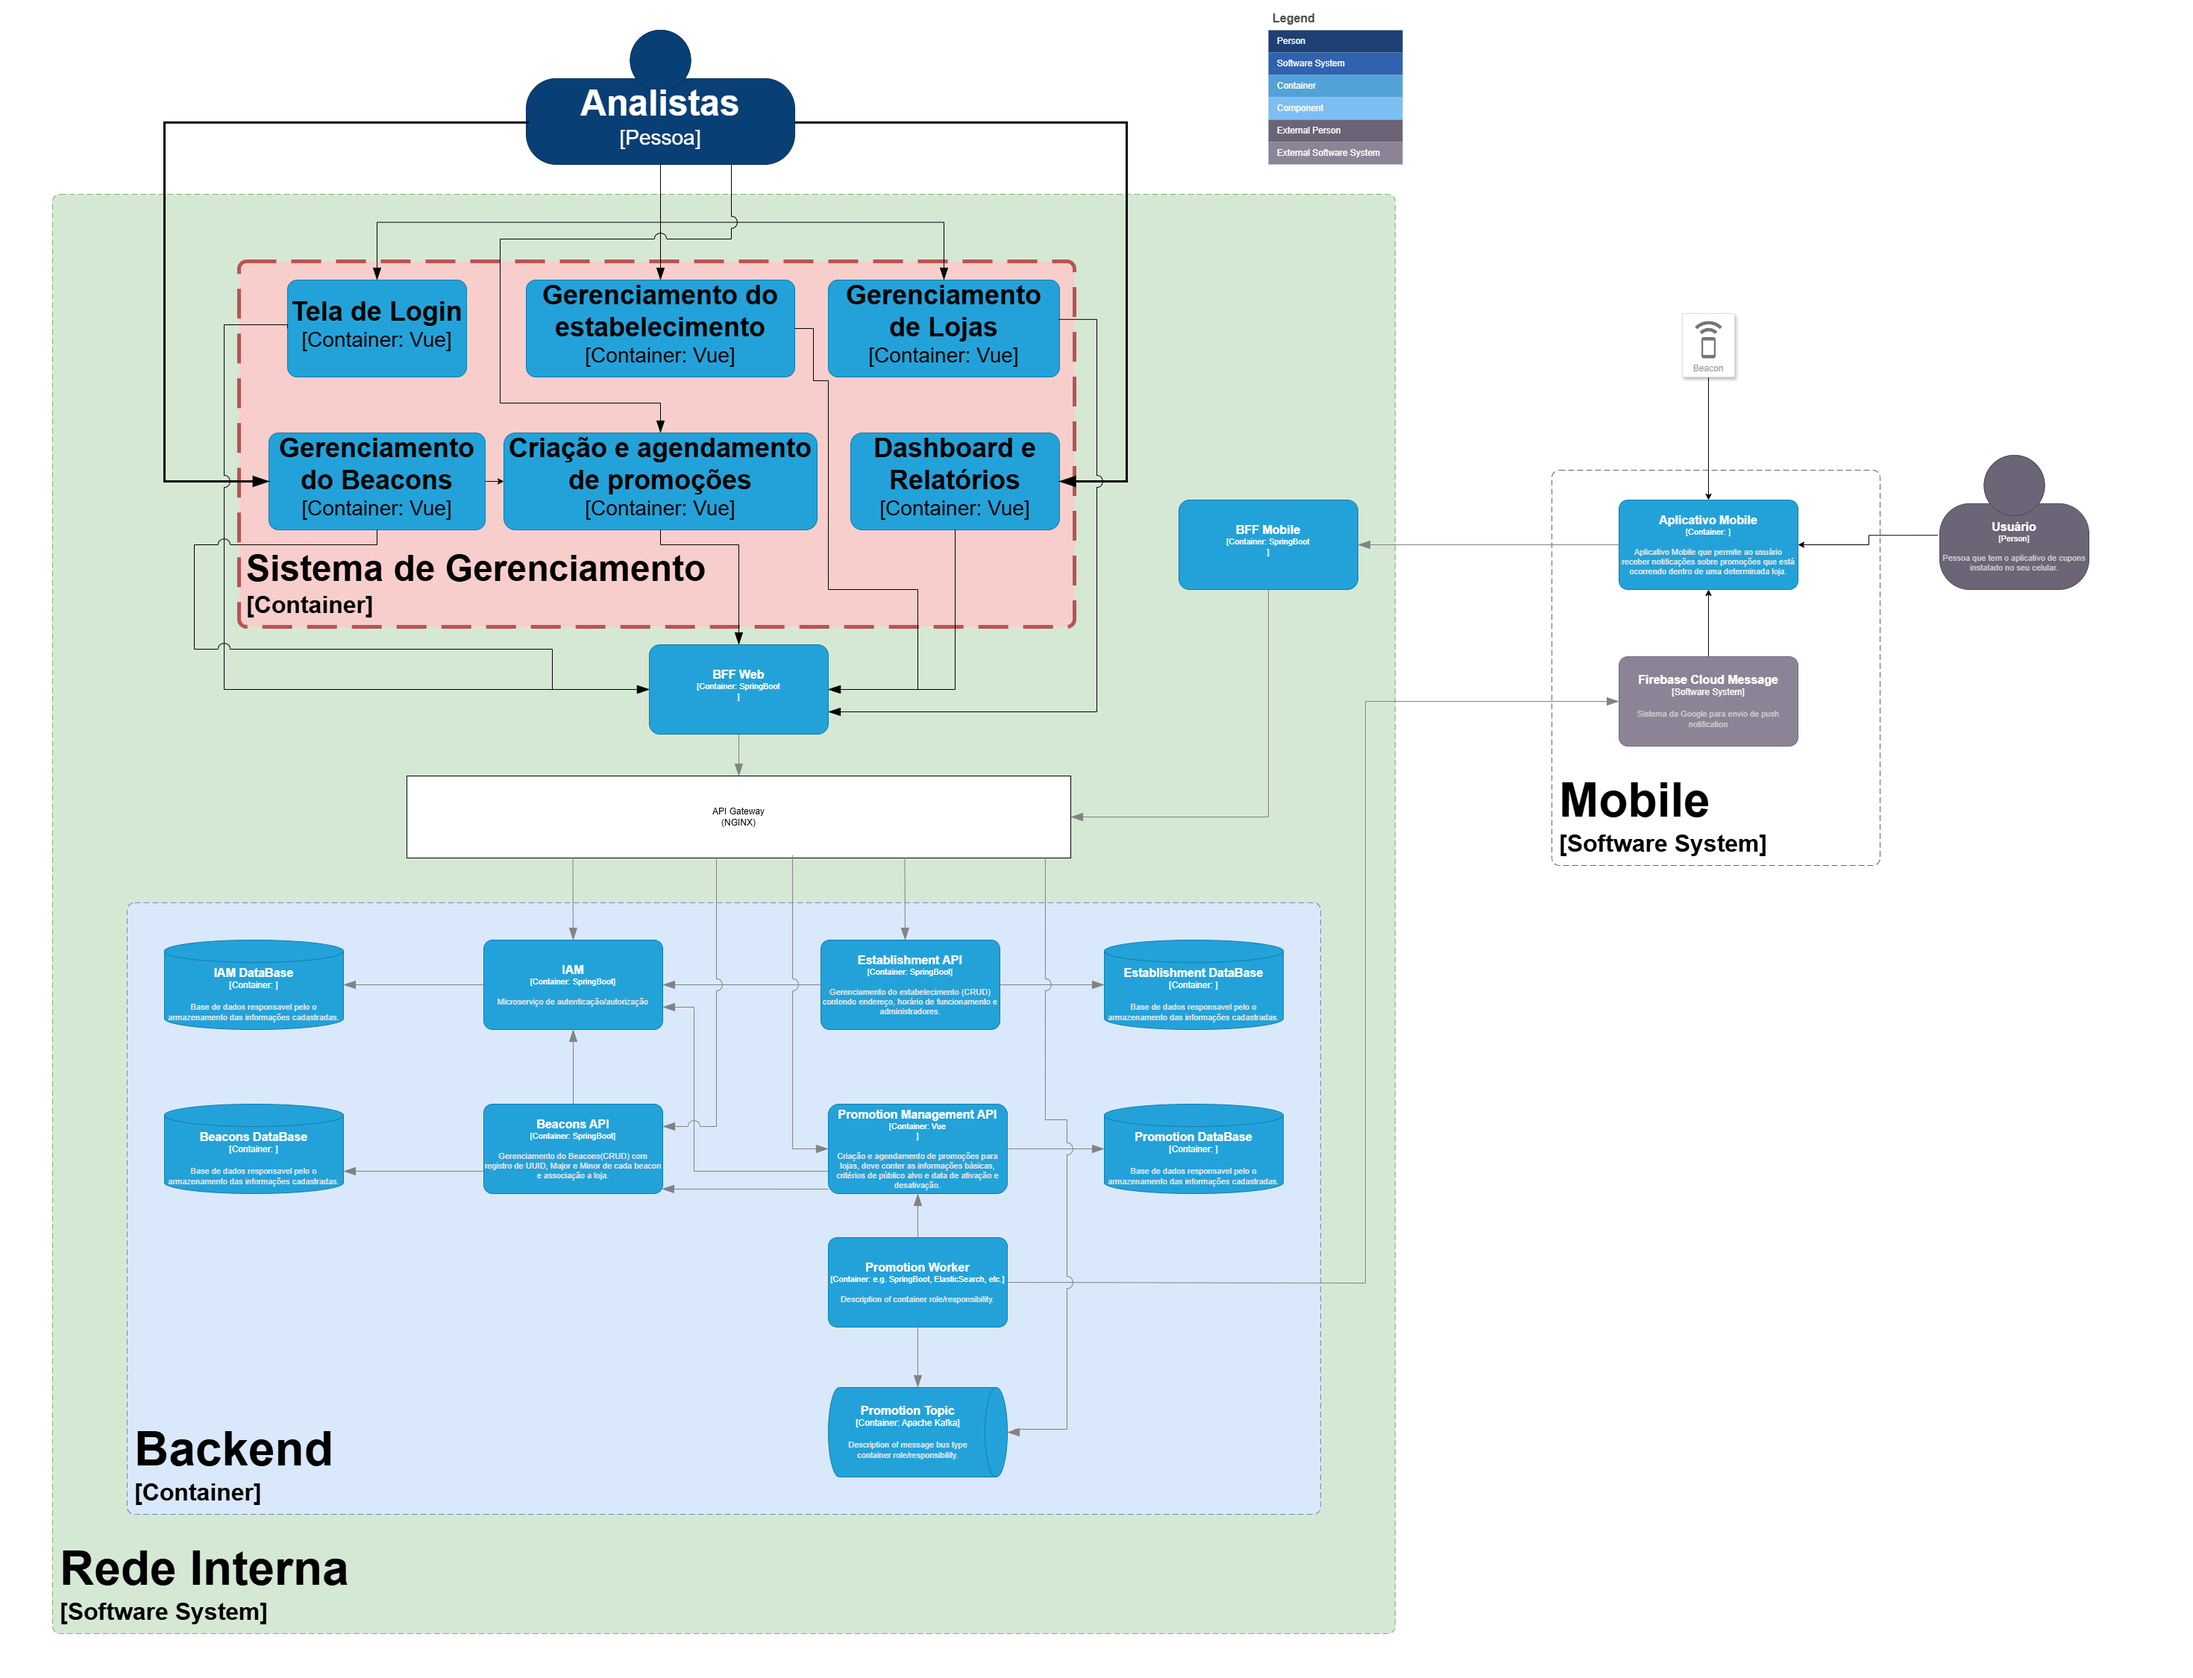
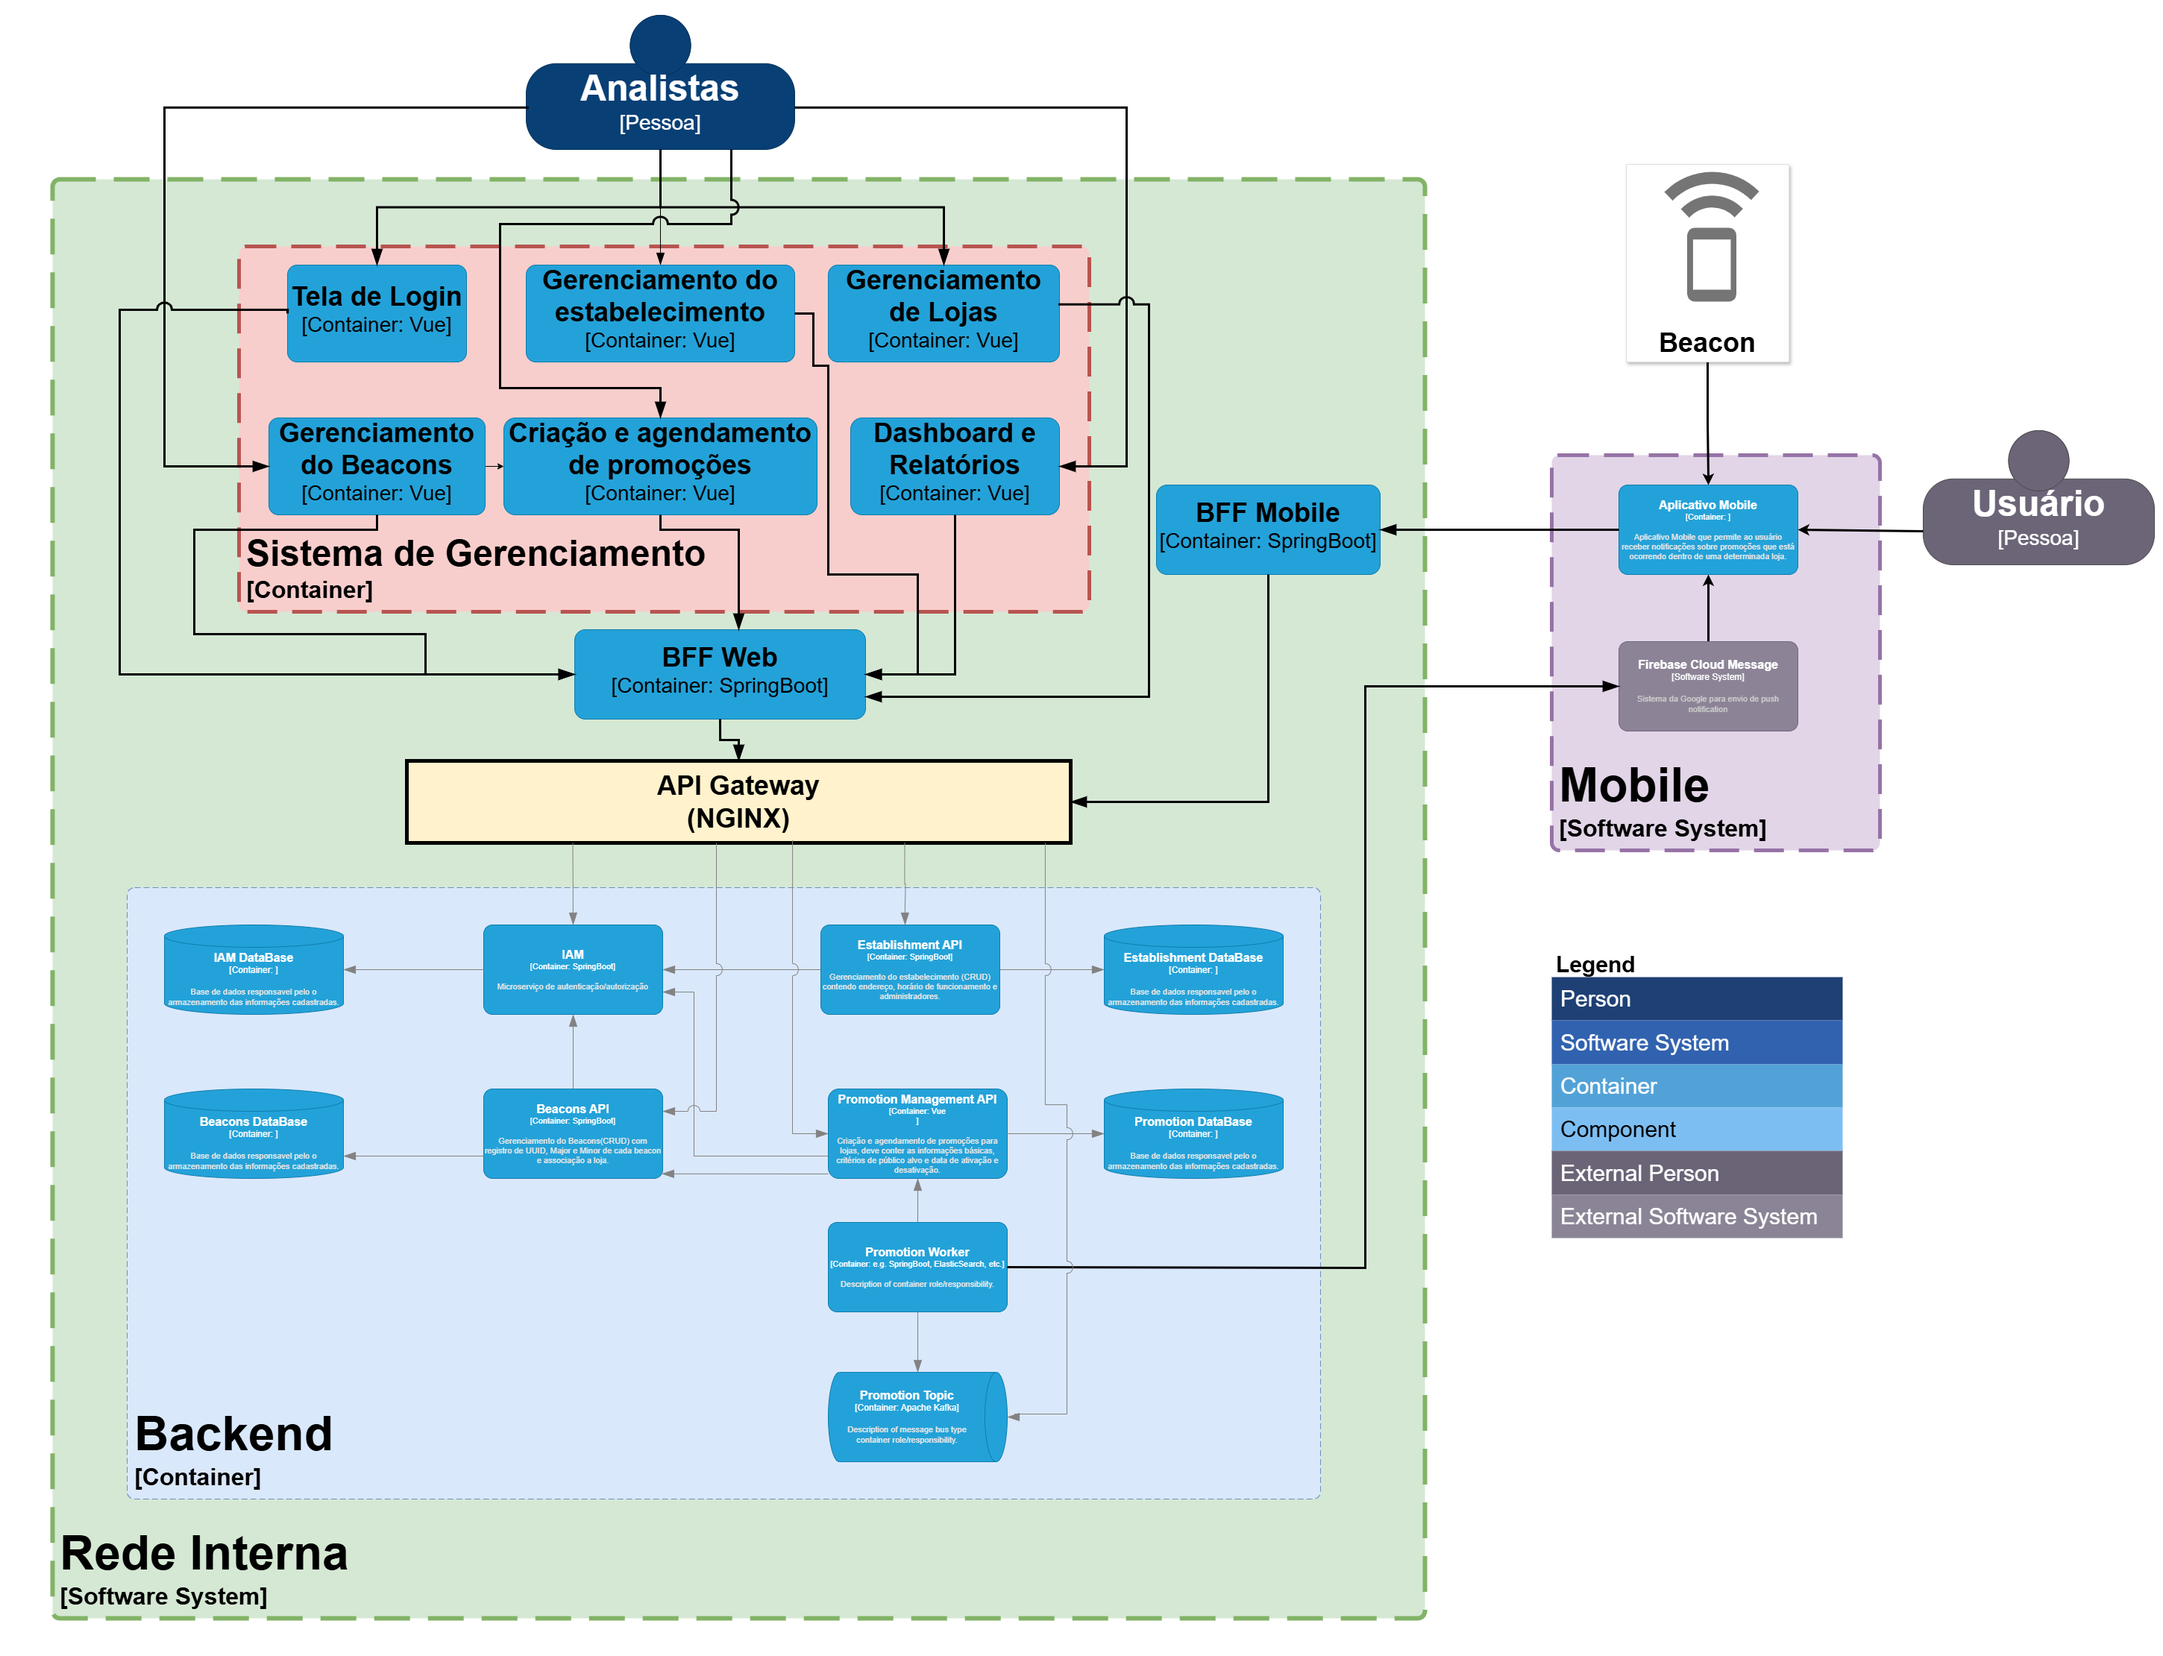
Mais componentes atualizados no diagrama C4 do sistema

diff --git a/README.md b/README.md
@@ -45,6 +45,8 @@ Os elementos do sistema de gerenciamento são:
 
 ## Aplicativo mobile
 
+ **Usuário**: Pessoa que tem o aplicativo de cupons instalado no seu celular.
+
 ## Backend
 
 # Referências
